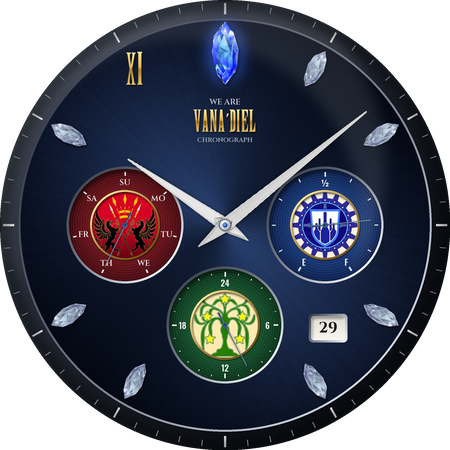
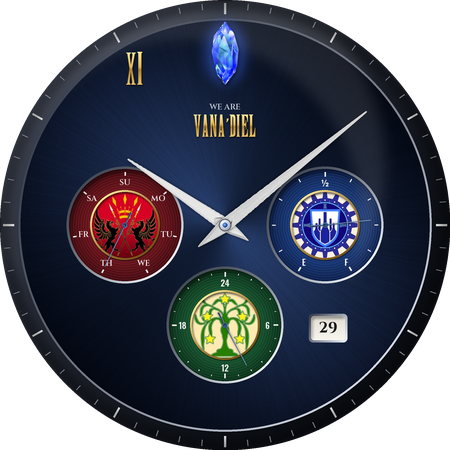
Watch face: drop the small crystals and 'CHRONOGRAPH' from Classic
Classic now keeps only the 12 o'clock crystal and XI, matching Dark; the
wordmark moves down slightly to balance without the third line. Removes
the now-unused clear-crystal marker code.

Claude-Session: https://claude.ai/code/session_01DhcV9kAg7FMXufVfZQP7Ta

diff --git a/ffxi-watchface/tools/generate_assets.py b/ffxi-watchface/tools/generate_assets.py
@@ -203,30 +203,11 @@ def applied_text(img, draw_fn, stops=GOLD_STOPS, shadow=True):
 
 # --------------------------------------------------------------------- crystals
 CRYSTAL_R = (140, 204)   # 12 o'clock crystal spans these radii
-MARKER_R = (160, 201)    # clear crystal hour markers span these radii
 
 
-def load_crystal(height, clear=False):
+def load_crystal(height):
     cr = Image.open(os.path.join(EMBLEMS, 'crystal.png')).convert('RGBA')
-    cr = cr.resize((round(height * cr.width / cr.height), round(height)), Image.LANCZOS)
-    if clear:   # rock-crystal version: desaturate, lift and cool the tone
-        a = np.asarray(cr).astype(float)
-        lum = (a[..., :3] @ [0.3, 0.45, 0.25])[..., None]
-        lum = 255 * (np.clip(lum / 255, 0, 1) ** 0.6)
-        rgb = lum * np.array([0.90, 0.95, 1.0]) * 0.85 + a[..., :3] * 0.15
-        cr = Image.fromarray(np.dstack([np.clip(rgb, 0, 255), a[..., 3]]).astype(np.uint8), 'RGBA')
-    return cr
-
-
-def place_marker(img, deg):
-    """Clear crystal hour marker, long axis radial, with a cast shadow."""
-    r0, r1 = MARKER_R
-    cr = load_crystal(s(r1 - r0), clear=True).rotate(-deg, resample=Image.BICUBIC, expand=True)
-    cx, cy = polar(s((r0 + r1) / 2), deg)
-    layer = Image.new('RGBA', img.size, (0, 0, 0, 0))
-    layer.paste(cr, (round(cx - cr.width / 2), round(cy - cr.height / 2)))
-    drop_shadow(img, layer.getchannel('A'), blur=1.2, alpha=0.65)
-    img.alpha_composite(layer)
+    return cr.resize((round(height * cr.width / cr.height), round(height)), Image.LANCZOS)
 
 
 # Gem line drawing for the outline styles: outer outline, inner table, and facet
@@ -428,11 +409,7 @@ def make_dial(ambient=False, bright=0.6):
         col = (120, 120, 120) if ambient else ((240, 240, 240) if five else (170, 176, 186))
         d.line([polar(s(222), a), polar(s(211 if five else 216), a)], fill=col, width=round(s(2.2 if five else 1)))
 
-    # hour indices: crystals; 12 = blue crystal, 11 = "XI"
-    if not ambient:   # the outline styles keep only the 12 o'clock crystal
-        for h in (1, 2, 4, 5, 7, 8, 10):
-            place_marker(img, h * 30)
-    d = ImageDraw.Draw(img)
+    # 12 = crystal, 11 = "XI"
     if not ambient:
         glow = Image.new('RGBA', size, (0, 0, 0, 0))
         ImageDraw.Draw(glow).ellipse([C - s(24), C - s(208), C + s(24), C - s(136)], fill=(60, 110, 255, 150))
@@ -447,10 +424,9 @@ def make_dial(ambient=False, bright=0.6):
     else:
         # applied (raised) gold numeral and wordmark; small print stays flat like pad printing
         applied_text(img, lambda dd, f: text_ff(dd, pos, 'XI', 34, f))
-        applied_text(img, lambda dd, f: text_ff(dd, (C, C - s(104)), "VANA'DIEL", 23, f))
+        applied_text(img, lambda dd, f: text_ff(dd, (C, C - s(99)), "VANA'DIEL", 23, f))
         d = ImageDraw.Draw(img)
-        text_c(d, (C, C - s(123)), 'WE ARE', font(FONT_LABEL, 8), (200, 206, 218))
-        text_c(d, (C, C - s(85)), 'CHRONOGRAPH', font(FONT_LABEL, 6.5), (170, 178, 192))
+        text_c(d, (C, C - s(118)), 'WE ARE', font(FONT_LABEL, 8), (200, 206, 218))
 
     for key in NATIONS:
         draw_subdial(img, key, ambient, bright)
